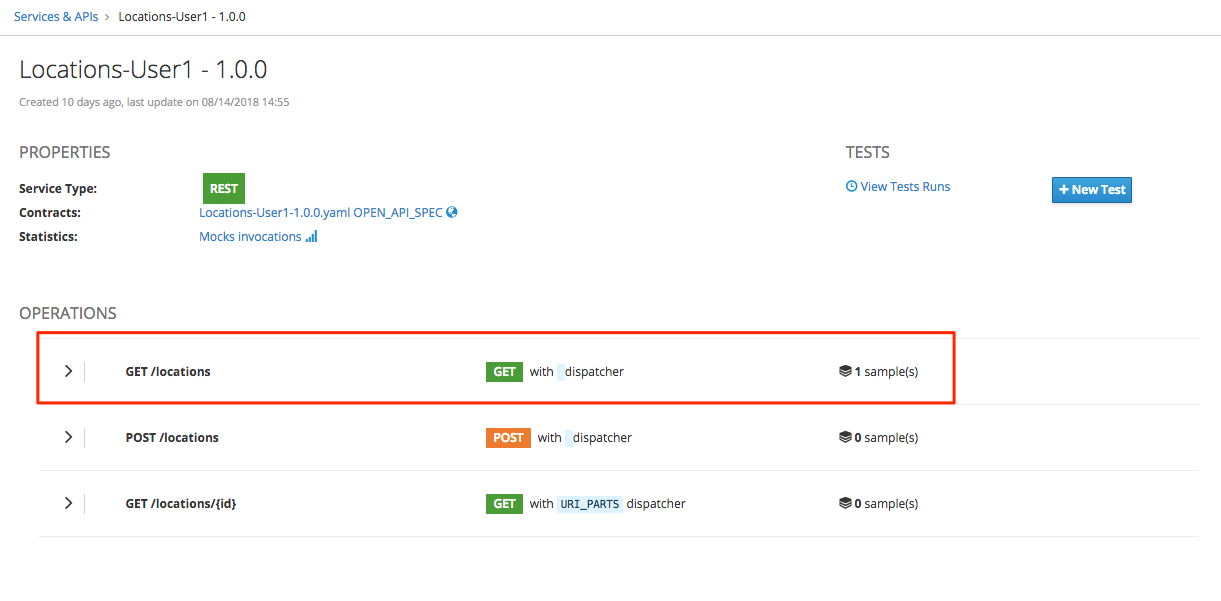
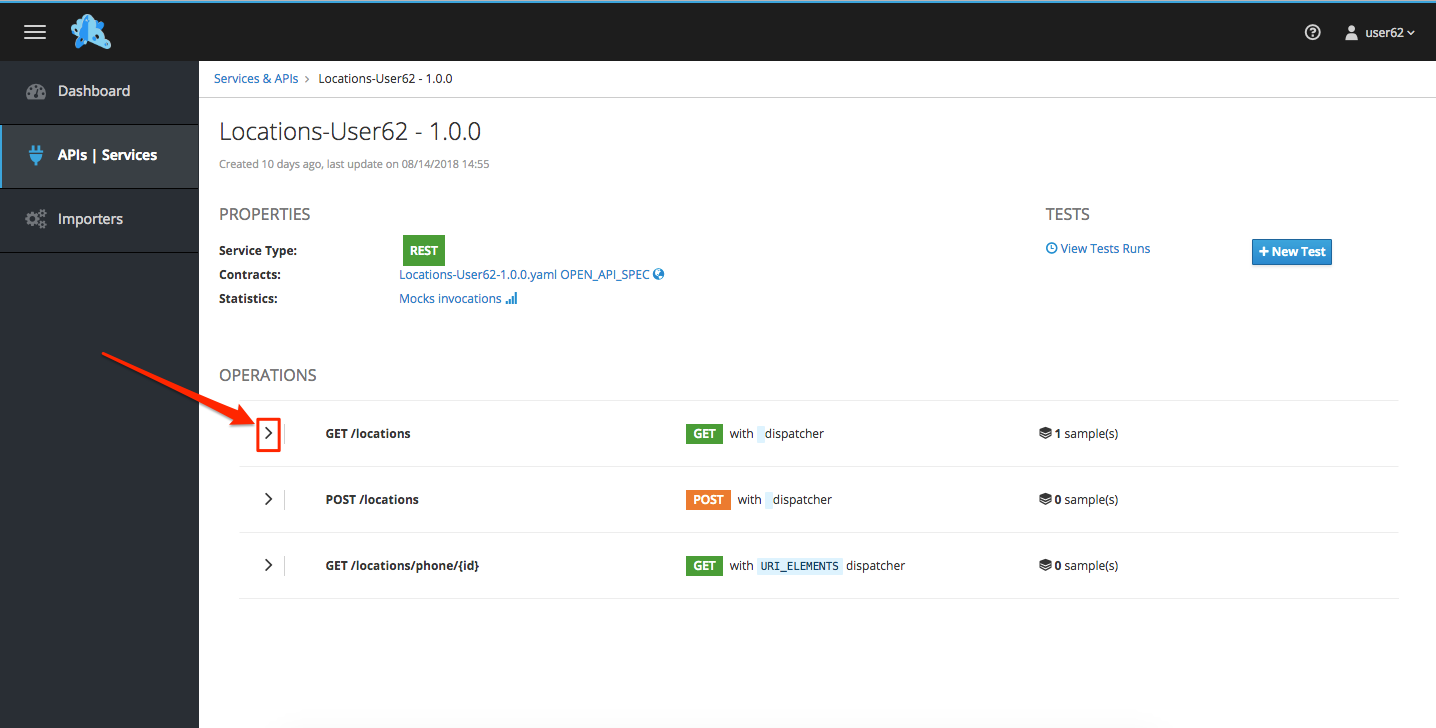
update readme to highlight step 8

diff --git a/docs/labs/citizen-integrator-track/lab02/README.md b/docs/labs/citizen-integrator-track/lab02/README.md
@@ -81,11 +81,11 @@ Once the environment is provisioned, you will be presented with a page that pres
 
    ![mock-jobs](images/mock-14.png "Job")
 
-1. Click on the services for your username. eg: **Locations-User1**.
+1. Click on the link for your username. eg: **Locations-User1**.
 
    ![mock-jobs](images/mock-15.png "Select services")
 
-1. Click the **Operation GET /locations** link to check the example under that operation.
+1. Click on the arrow to expand the **Operation GET /locations**.
 
    ![mock-mock-service](images/mock-16.png "Mock Service")
 
